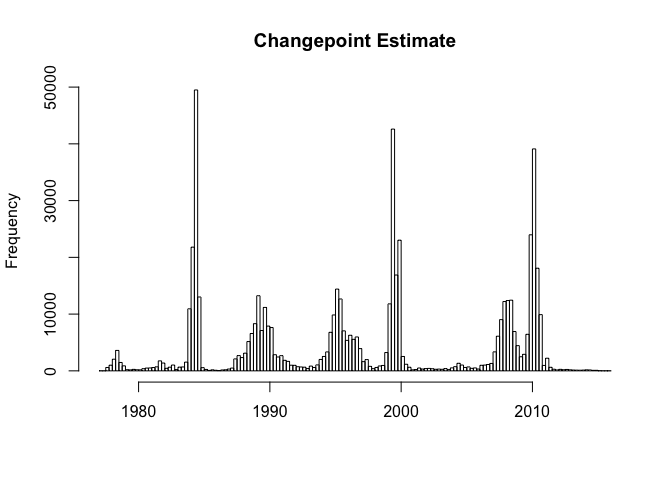
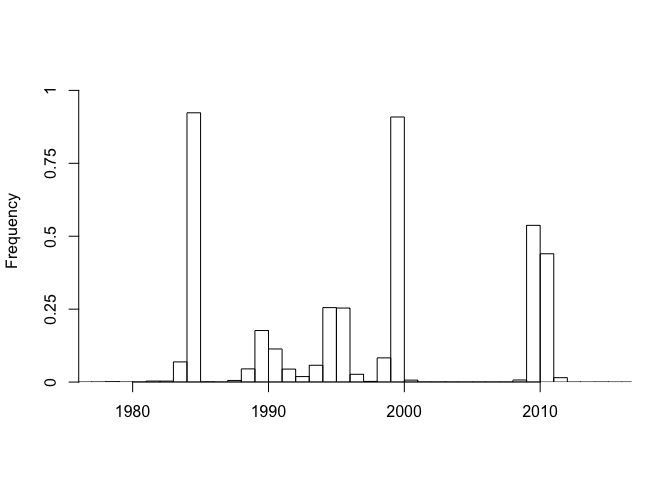
Correct typo in paper changepoint model selection
6 cpts is not, in fact, ever the best model.

diff --git a/paper-comparison/paper_changepoint.md b/paper-comparison/paper_changepoint.md
@@ -159,32 +159,27 @@ mean(cp_results_rodent5$saved_lls * -2)+ 2*(3*(ntopics-1)*(5+1)+(5))
     ## [1] 1287.404
 
 ``` r
-mean(cp_results_rodent6$saved_lls * -2)+ 2*(3*(ntopics-1)*(5+1)+(5))
+mean(cp_results_rodent6$saved_lls * -2)+ 2*(3*(ntopics-1)*(6+1)+(6))
 ```
 
-    ## [1] 1270.919
+    ## [1] 1302.919
 
 ``` r
-# lowest deviance is for 4 (or 6) changepoints
+# lowest deviance is for 4 changepoints
 
 rm(list = c('cp_results_rodent', 'cp_results_rodent2', 
-            'cp_results_rodent3', 'cp_results_rodent5'))
+            'cp_results_rodent3', 'cp_results_rodent5',
+            'cp_results_rodent6'))
 hist(year_continuous[cp_results_rodent4$saved[,1,]],breaks = seq(1977,2016,.25),xlab='',main='Changepoint Estimate')
 ```
 
 ![](paper_changepoint_files/figure-markdown_github/ldats%20lda-1.png)
 
 ``` r
-hist(year_continuous[cp_results_rodent6$saved[,1,]],breaks = seq(1977,2016,.25),xlab='',main='Changepoint Estimate')
-```
-
-![](paper_changepoint_files/figure-markdown_github/ldats%20lda-2.png)
-
-``` r
 annual_hist(cp_results_rodent4,year_continuous)
 ```
 
-![](paper_changepoint_files/figure-markdown_github/ldats%20lda-3.png)
+![](paper_changepoint_files/figure-markdown_github/ldats%20lda-2.png)
 
 ``` r
 # turn changepoint results into data frame
@@ -258,65 +253,6 @@ quantile(df_4[df_4$variable=='V4','value'],probs=c(.025,.975)) %>% date_decimal(
 
     ##         2.5%        97.5% 
     ## "23-05-2009" "14-05-2010"
-
-``` r
-## 6 cpts 
-annual_hist(cp_results_rodent6,year_continuous)
-```
-
-![](paper_changepoint_files/figure-markdown_github/ldats%20lda-4.png)
-
-``` r
-# turn changepoint results into data frame
-df_6 = as.data.frame(t(cp_results_rodent6$saved[,1,])) %>% melt()
-```
-
-    ## No id variables; using all as measure variables
-
-``` r
-df_6$value = year_continuous[df_6$value]
-
-# find 95% confidence intervals on each changepoint:
-quantile(df_6[df_6$variable=='V1','value'],probs=c(.025,.975)) %>% date_decimal() %>% format('%d-%m-%Y')
-```
-
-    ##         2.5%        97.5% 
-    ## "25-02-1983" "02-07-1984"
-
-``` r
-quantile(df_6[df_6$variable=='V2','value'],probs=c(.025,.975)) %>% date_decimal() %>% format('%d-%m-%Y')
-```
-
-    ##         2.5%        97.5% 
-    ## "30-01-1987" "06-08-1991"
-
-``` r
-quantile(df_6[df_6$variable=='V3','value'],probs=c(.025,.975)) %>% date_decimal() %>% format('%d-%m-%Y')
-```
-
-    ##         2.5%        97.5% 
-    ## "12-03-1991" "21-12-1998"
-
-``` r
-quantile(df_6[df_6$variable=='V4','value'],probs=c(.025,.975)) %>% date_decimal() %>% format('%d-%m-%Y')
-```
-
-    ##         2.5%        97.5% 
-    ## "14-07-1993" "05-03-2003"
-
-``` r
-quantile(df_6[df_6$variable=='V5','value'],probs=c(.025,.975)) %>% date_decimal() %>% format('%d-%m-%Y')
-```
-
-    ##         2.5%        97.5% 
-    ## "17-07-1998" "12-12-2009"
-
-``` r
-quantile(df_6[df_6$variable=='V6','value'],probs=c(.025,.975)) %>% date_decimal() %>% format('%d-%m-%Y')
-```
-
-    ##         2.5%        97.5% 
-    ## "20-06-2009" "25-04-2014"
 
 ``` r
 rm(list = ls())
@@ -450,32 +386,27 @@ mean(cp_results_rodent5$saved_lls * -2)+ 2*(3*(ntopics-1)*(5+1)+(5))
     ## [1] 817.8308
 
 ``` r
-mean(cp_results_rodent6$saved_lls * -2)+ 2*(3*(ntopics-1)*(5+1)+(5))
+mean(cp_results_rodent6$saved_lls * -2)+ 2*(3*(ntopics-1)*(6+1)+(6))
 ```
 
-    ## [1] 806.4913
+    ## [1] 826.4913
 
 ``` r
-# lowest deviance is again for 4 (or 6) changepoints
+# lowest deviance is again for 4 changepoints
 
 rm(list = c('cp_results_rodent', 'cp_results_rodent2', 
-            'cp_results_rodent3', 'cp_results_rodent5'))
+            'cp_results_rodent3', 'cp_results_rodent5',
+            'cp_results_rodent6'))
 hist(year_continuous[cp_results_rodent4$saved[,1,]],breaks = seq(1977,2016,.25),xlab='',main='Changepoint Estimate')
 ```
 
 ![](paper_changepoint_files/figure-markdown_github/paper%20lda-1.png)
 
 ``` r
-hist(year_continuous[cp_results_rodent6$saved[,1,]],breaks = seq(1977,2016,.25),xlab='',main='Changepoint Estimate')
-```
-
-![](paper_changepoint_files/figure-markdown_github/paper%20lda-2.png)
-
-``` r
 annual_hist(cp_results_rodent4,year_continuous)
 ```
 
-![](paper_changepoint_files/figure-markdown_github/paper%20lda-3.png)
+![](paper_changepoint_files/figure-markdown_github/paper%20lda-2.png)
 
 ``` r
 # turn changepoint results into data frame
@@ -550,62 +481,3 @@ quantile(df_4[df_4$variable=='V4','value'],probs=c(.025,.975)) %>% date_decimal(
 
     ##         2.5%        97.5% 
     ## "20-06-2009" "05-11-2010"
-
-``` r
-## 6 cpts 
-annual_hist(cp_results_rodent6,year_continuous)
-```
-
-![](paper_changepoint_files/figure-markdown_github/paper%20lda-4.png)
-
-``` r
-# turn changepoint results into data frame
-df_6 = as.data.frame(t(cp_results_rodent6$saved[,1,])) %>% melt()
-```
-
-    ## No id variables; using all as measure variables
-
-``` r
-df_6$value = year_continuous[df_6$value]
-
-# find 95% confidence intervals on each changepoint:
-quantile(df_6[df_6$variable=='V1','value'],probs=c(.025,.975)) %>% date_decimal() %>% format('%d-%m-%Y')
-```
-
-    ##         2.5%        97.5% 
-    ## "17-02-1978" "30-07-1984"
-
-``` r
-quantile(df_6[df_6$variable=='V2','value'],probs=c(.025,.975)) %>% date_decimal() %>% format('%d-%m-%Y')
-```
-
-    ##         2.5%        97.5% 
-    ## "03-02-1984" "03-03-1995"
-
-``` r
-quantile(df_6[df_6$variable=='V3','value'],probs=c(.025,.975)) %>% date_decimal() %>% format('%d-%m-%Y')
-```
-
-    ##         2.5%        97.5% 
-    ## "13-05-1988" "10-09-1999"
-
-``` r
-quantile(df_6[df_6$variable=='V4','value'],probs=c(.025,.975)) %>% date_decimal() %>% format('%d-%m-%Y')
-```
-
-    ##         2.5%        97.5% 
-    ## "16-08-1994" "20-01-2007"
-
-``` r
-quantile(df_6[df_6$variable=='V5','value'],probs=c(.025,.975)) %>% date_decimal() %>% format('%d-%m-%Y')
-```
-
-    ##         2.5%        97.5% 
-    ## "19-02-1999" "17-10-2009"
-
-``` r
-quantile(df_6[df_6$variable=='V6','value'],probs=c(.025,.975)) %>% date_decimal() %>% format('%d-%m-%Y')
-```
-
-    ##         2.5%        97.5% 
-    ## "22-08-2009" "25-05-2011"

diff --git a/paper-comparison/compare-christensen.md b/paper-comparison/compare-christensen.md
@@ -254,7 +254,7 @@ There is the additional wrinkle of `document_term_weights`. The paper weighted a
 
 For narratives running all these models, see `ldats_changepoint.md` and `paper_changepoint.md`.
 
-All the models found 4 changepoints (although the paper model actually finds lower deviances for 6 changepoints, 6 was outside the range considered by the paper/anticipated by LDATS, so I'm sticking with 4 for now)
+All the models found 4 changepoints.
 
 ### Compare model outcomes
 
